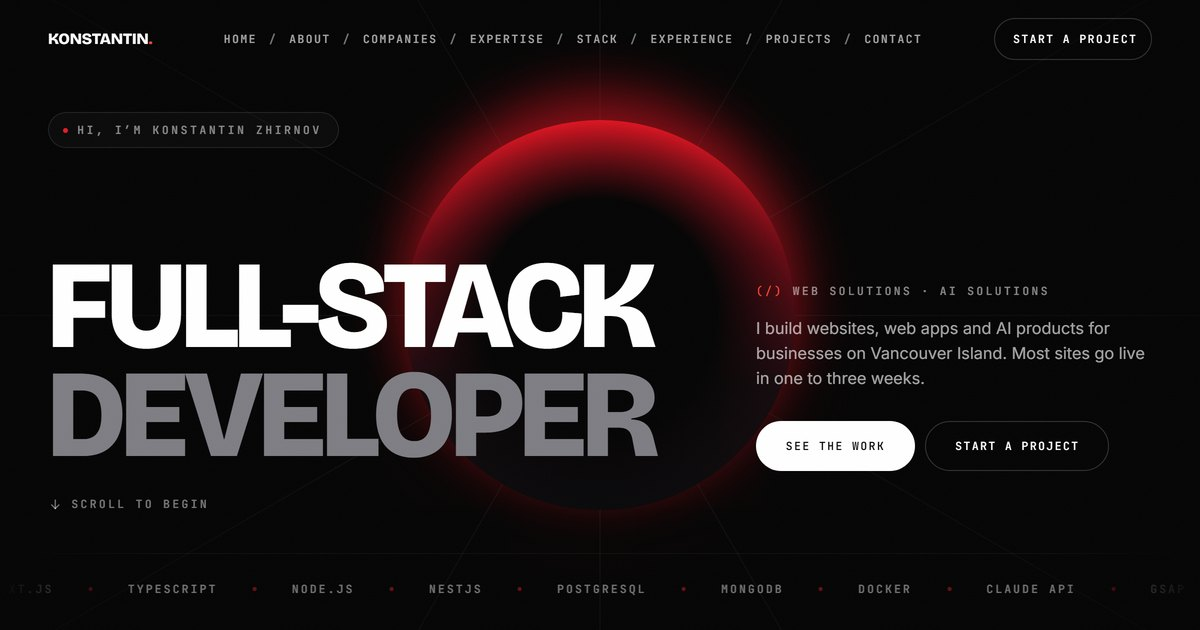
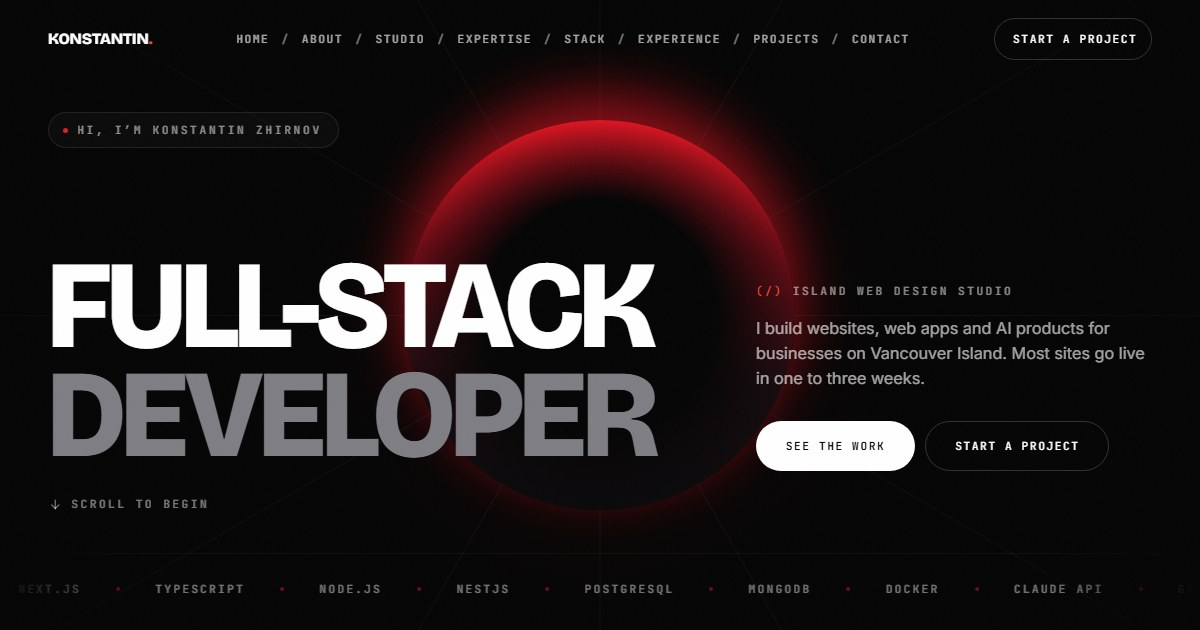
Rename Web Solutions to Island Web Design Studio and drop AI Solutions
AI Solutions no longer exists, so its company card, project and screenshot
are gone; the studio section, copy, meta tags, noscript block, Open Graph
image and product docs now name Island Web Design Studio only.

diff --git a/src/shared/content.ts b/src/shared/content.ts
@@ -1,6 +1,6 @@
 /**
  * Every word and link on the site lives here, so the page components stay layout-only.
- * Sources: the CV (Feb 2026), create-website.ca and ai-solutions.live.
+ * Sources: the CV (Feb 2026) and create-website.ca.
  */
 
 // Contact details below are mirrored in the <noscript> block of public/index.html,
@@ -26,24 +26,24 @@ export const profile = {
     'I build websites, web apps and AI products for businesses on Vancouver Island. Most sites go live in one to three weeks.',
   bio: [
     'I have been building for the web since 2018 — first for agencies and product teams, then for a bank, a steel company, and a B2B portal I rewrote from scratch for 26,000 new clients. Speed, accessibility and search ranking are part of the build, not the phase that gets cut.',
-    'Since January 2026 I run two of my own companies out of Nanaimo: Web Solutions, a web studio for small businesses across Vancouver Island, and AI Solutions, an AI product studio. I design, build and support everything myself — you talk to the person writing the code.',
+    'Since January 2026 I run my own studio out of Nanaimo: Island Web Design Studio, building websites, web apps and AI products for small businesses across Vancouver Island. I design, build and support everything myself — you talk to the person writing the code.',
   ],
 }
 
 export const stats = [
   { value: '2018', label: 'Building for the web since' },
   { value: '30+', label: 'Websites shipped' },
-  { value: '02', label: 'Companies of my own' },
+  { value: '08', label: 'Years of commercial work' },
   { value: '5.0', label: 'Rating on Google' },
 ]
 
 export const companies = [
   {
-    id: 'web-solutions',
-    name: 'Web Solutions',
+    id: 'island-web-design-studio',
+    name: 'Island Web Design Studio',
     url: 'https://create-website.ca/',
     since: 'Since January 2026',
-    kind: 'Web studio · Nanaimo, Vancouver Island',
+    kind: 'Web design studio · Nanaimo, Vancouver Island',
     text: 'Fast, SEO-optimized, mobile-first websites and web apps for small businesses — from the first sketch of a brand to the local search traffic that finds it.',
     services: [
       'Business websites',
@@ -52,21 +52,6 @@ export const companies = [
       'UI/UX design',
       'Brand identity',
       'Local SEO',
-    ],
-  },
-  {
-    id: 'ai-solutions',
-    name: 'AI Solutions',
-    url: 'https://ai-solutions.live/',
-    since: 'Since January 2026',
-    kind: 'AI product studio',
-    text: 'Frontier AI turned into working products: custom applications, agents and chatbots that resolve real tasks, LLM integration into systems already running, and automation that makes routine work disappear.',
-    services: [
-      'Custom AI apps',
-      'AI agents & chatbots',
-      'LLM integration',
-      'Process automation',
-      'Evaluation & guardrails',
     ],
   },
 ]
@@ -171,9 +156,9 @@ export const stack: { group: string; items: string[] }[] = [
 export const experience = [
   {
     years: '2026 — now',
-    company: 'Web Solutions · AI Solutions',
+    company: 'Island Web Design Studio',
     role: 'Founder, Full Stack Developer',
-    text: 'Run both companies end to end — design, build, deploy and support websites, web apps and AI products for clients across Vancouver Island.',
+    text: 'Run the studio end to end — design, build, deploy and support websites, web apps and AI products for clients across Vancouver Island.',
     tech: ['Next.js', 'TypeScript', 'Node.js', 'PostgreSQL', 'Claude API', 'Stripe'],
   },
   {
@@ -231,15 +216,6 @@ export type Project = {
 }
 
 export const projects: Project[] = [
-  {
-    id: 'ai-solutions',
-    tag: 'AI product studio',
-    title: 'AI Solutions',
-    text: 'A modern AI product studio website that positions the brand as an end-to-end partner for building real AI-powered products.',
-    tech: ['AI-focused', 'Premium design', 'Service-led'],
-    url: 'https://ai-solutions.live',
-    shot: 'ai-solutions',
-  },
   {
     id: 'helper',
     tag: 'AI booking SaaS',
@@ -325,7 +301,7 @@ export const education = [
 export const nav = [
   { label: 'Home', href: '#top' },
   { label: 'About', href: '#about' },
-  { label: 'Companies', href: '#now' },
+  { label: 'Studio', href: '#now' },
   { label: 'Expertise', href: '#expertise' },
   { label: 'Stack', href: '#stack' },
   { label: 'Experience', href: '#work' },
@@ -353,7 +329,7 @@ export const hero = {
   // the second display line; the first cycles through profile.roles
   title: 'Developer',
   mark: '(/)',
-  kicker: 'Web Solutions · AI Solutions',
+  kicker: 'Island Web Design Studio',
   primary: { label: 'See the work', href: '#projects' },
   cue: 'Scroll to begin',
   marquee: [
@@ -383,8 +359,8 @@ export const heads: Record<
   },
   now: {
     eyebrow: '// Currently',
-    title: ['Two companies', 'of my own'],
-    lead: 'Since January 2026 I have been running both out of Nanaimo — one building the web for small businesses across Vancouver Island, the other turning frontier AI into products people actually use.',
+    title: ['A studio', 'of my own'],
+    lead: 'Since January 2026 I have been running Island Web Design Studio out of Nanaimo — building the web, and the AI behind it, for small businesses across Vancouver Island.',
   },
   expertise: {
     eyebrow: '// Core disciplines',
@@ -399,12 +375,12 @@ export const heads: Record<
   work: {
     eyebrow: '// Track record',
     title: ['Where the', 'hours went'],
-    lead: 'Eight years from agency work through an internal banking platform and a B2B portal rewrite, to running two companies of my own.',
+    lead: 'Eight years from agency work through an internal banking platform and a B2B portal rewrite, to running a studio of my own.',
   },
   projects: {
     eyebrow: '// Selected work',
     title: ['Projects that', 'define the journey'],
-    lead: 'Eight sites and products, every one of them live right now, and every one designed, built and deployed by me.',
+    lead: 'Seven sites and products, every one of them live right now, and every one designed, built and deployed by me.',
   },
   education: {
     eyebrow: '// Formal training',
@@ -438,7 +414,7 @@ export const footer = {
   sections: 'Sections',
   companies: 'Companies',
   elsewhere: 'Elsewhere',
-  // listed in the footer beside the two companies
+  // listed in the footer beside the studio
   products: [{ name: 'Helper AI', url: 'https://helper-ai.org/' }],
   resume: 'Résumé (PDF)',
   cta: 'Have something to build? Write to me directly.',

diff --git a/index.html b/index.html
@@ -19,7 +19,7 @@
     <title>Konstantin Zhirnov — Full Stack Developer in Nanaimo, BC</title>
     <meta
       name="description"
-      content="Websites, web apps and AI products for businesses on Vancouver Island. Konstantin Zhirnov — full stack developer in Nanaimo, BC, and founder of Web Solutions and AI Solutions."
+      content="Websites, web apps and AI products for businesses on Vancouver Island. Konstantin Zhirnov — full stack developer in Nanaimo, BC, and founder of Island Web Design Studio."
     />
     <meta name="author" content="Konstantin Zhirnov" />
 
@@ -28,7 +28,7 @@
     <meta property="og:title" content="Konstantin Zhirnov — Full Stack Developer in Nanaimo, BC" />
     <meta
       property="og:description"
-      content="Websites, web apps and AI products for businesses on Vancouver Island. Founder of Web Solutions and AI Solutions, Nanaimo BC."
+      content="Websites, web apps and AI products for businesses on Vancouver Island. Founder of Island Web Design Studio, Nanaimo BC."
     />
     <!-- Crawlers (LinkedIn, Slack, X) need an absolute URL here. -->
     <meta property="og:image" content="https://kostya-zhirnov.vercel.app/og-image.jpg" />
@@ -65,7 +65,7 @@
         <ul>
           <li><a href="mailto:kostya.zhirnov@gmail.com">kostya.zhirnov@gmail.com</a></li>
           <li><a href="tel:+12507972834">(250) 797-2834</a></li>
-          <li><a href="https://create-website.ca/">Web Solutions</a> · <a href="https://ai-solutions.live/">AI Solutions</a></li>
+          <li><a href="https://create-website.ca/">Island Web Design Studio</a></li>
           <li><a href="https://www.linkedin.com/in/kostya-zhirnov/">LinkedIn</a> · <a href="https://github.com/Konstantin-Zhirnov">GitHub</a> · <a href="/Konstantin_Zhirnov.pdf">Résumé (PDF)</a></li>
         </ul>
       </main>

diff --git a/src/shared/assets/work/index.ts b/src/shared/assets/work/index.ts
@@ -1,4 +1,3 @@
-import aiSolutions from './ai-solutions.webp'
 import athecon from './athecon.webp'
 import helper from './helper-ai.webp'
 import p3 from './p3me.webp'
@@ -7,9 +6,8 @@ import pdr from './paintless-dent-repair.webp'
 import upgreat from './upgreat-home.webp'
 import yankovska from './yankovskaschool-2026.webp'
 
-/** Site shots shared with the Web Solutions studio site (C:\Projects\Studio), 1400×875. */
+/** Site shots shared with the Island Web Design Studio site (C:\Projects\Studio), 1400×875. */
 export const shots: Record<string, string> = {
-  'ai-solutions': aiSolutions,
   athecon,
   helper,
   p3,

diff --git a/src/widgets/Now/Now.module.sass b/src/widgets/Now/Now.module.sass
@@ -4,7 +4,8 @@
 
 .grid
   display: grid
-  grid-template-columns: repeat(2, minmax(0, 1fr))
+  // one card per company; a lone card takes the full row
+  grid-template-columns: repeat(auto-fit, minmax(min(100%, 24rem), 1fr))
   gap: clamp(1rem, 2vw, 1.5rem)
 
 .card

diff --git a/PRODUCT.md b/PRODUCT.md
@@ -21,7 +21,7 @@ within one click. They are served by the same page, but they are not who the pag
 ## Product Purpose
 
 The personal site of Konstantin Zhirnov, Full Stack Developer in Nanaimo, BC — the one page that
-carries both halves of his working life: the client work shipped through his two companies, and the
+carries both halves of his working life: the client work shipped through his own studio, and the
 eight-year employment record behind it.
 
 Success is a started conversation about a project. A message on email, Telegram, WhatsApp or the
@@ -31,27 +31,27 @@ shaped around.
 ## Positioning
 
 One person owns the entire chain — design, build, deploy, support — so the client talks to the
-developer writing the code rather than to an account manager. Two companies run in parallel out of
-Nanaimo since January 2026: **Web Solutions** (create-website.ca) for websites and web apps for
-small businesses, and **AI Solutions** (ai-solutions.live) for AI products, agents and automation.
-The pairing is the position: a local web studio that can also ship LLM products that take real
-action, which neither a generic local agency nor a remote AI shop can claim truthfully.
+developer writing the code rather than to an account manager. One studio runs out of Nanaimo since
+January 2026: **Island Web Design Studio** (create-website.ca) for websites, web apps and AI
+products for small businesses. The position: a local web studio that can also ship LLM products
+that take real action, which neither a generic local agency nor a remote AI shop can claim
+truthfully.
 
 ## Operating Context
 
-- Clients are local and small; most Web Solutions sites ship in one to three weeks.
-- The page is a single scrolling document with in-page navigation — Home, About, Companies,
+- Clients are local and small; most Island Web Design Studio sites ship in one to three weeks.
+- The page is a single scrolling document with in-page navigation — Home, About, Studio,
   Expertise, Stack, Experience, Projects, Contact — not a multi-route site.
 - There is no contact form. Enquiries arrive through direct channels: email, phone, Telegram,
   WhatsApp, plus LinkedIn and GitHub for the hiring audience.
 - The résumé PDF (`public/Konstantin_Zhirnov.pdf`) is the artefact the hiring audience wants.
-- Project screenshots are shared with the Web Solutions studio site (`C:\Projects\studio`), so the
+- Project screenshots are shared with the Island Web Design Studio site (`C:\Projects\studio`), so the
   two properties show the same client work.
 
 ## Capabilities and Constraints
 
-**Confirmed content the site carries:** profile and bio; two company cards; four expertise
-disciplines; a five-group technology stack; seven employment entries from 2018 to now; eight live
+**Confirmed content the site carries:** profile and bio; one studio card; four expertise
+disciplines; a five-group technology stack; seven employment entries from 2018 to now; seven live
 client projects with screenshots and links; two education credentials; four headline statistics;
 five contact channels.
 
@@ -66,7 +66,7 @@ five contact channels.
 
 **Explicitly open:** the site is static today, but a backend is *not* ruled out — a serverless
 function and a real contact form are permitted future work if they serve the client audience. The
-existing Web Solutions mail route (`Studio/app/api/mail/route.ts`, which forwards into Telegram) is
+existing Island Web Design Studio mail route (`Studio/app/api/mail/route.ts`, which forwards into Telegram) is
 the shape to follow if one is added.
 
 **Audience order in copy:** the hero, the header CTA ("Start a project") and the page meta lead
@@ -81,7 +81,7 @@ the Contact section, and nowhere above the fold.
   it does not redesign it away.
 - Voice in the shipped copy is first-person, plain and unhedged, with concrete numbers rather than
   adjectives ("you talk to the person writing the code").
-- Company names in use: Web Solutions, AI Solutions, Helper AI (helper-ai.org).
+- Company names in use: Island Web Design Studio, Helper AI (helper-ai.org).
 
 ## Evidence on Hand
 
@@ -99,7 +99,7 @@ the Contact section, and nowhere above the fold.
 
 **Assets:**
 
-- Eight client site screenshots, 1400×875, in `src/shared/assets/work/`: AI Solutions, Helper AI,
+- Seven client site screenshots, 1400×875, in `src/shared/assets/work/`: Helper AI,
   Athecon Projects, P3 Mechanical & Electrical, Pahlavan General Contracting, UPGREAT Home
   Renovations, Yankovska School of Rhythmic Gymnastics, Mobile Paintless Dent Repair. Every one is a
   live site.

diff --git a/README.md b/README.md
@@ -16,7 +16,7 @@ npm run build # production bundle into build/
 | `src/shared/content.ts` | **every word and link on the site** — profile, companies, expertise, stack, experience, projects, education. Edit copy here, not in the components. |
 | `src/app/App.sass` | design tokens (colour, type, rhythm, motion) as CSS custom properties, plus the shared section furniture (`.container`, `.section`, `.h2`, `.eyebrow`, `.lead`, `.head`, `.line`). |
 | `src/shared/lib/useMotion.ts` | the whole motion layer: Lenis + ScrollTrigger boot and the reveal system. |
-| `src/shared/assets/` | `portrait.jpg` (duotone plate used in About), `portrait-source.jpg` (the untouched original), `work/` (site screenshots, shared with the Web Solutions studio site). |
+| `src/shared/assets/` | `portrait.jpg` (duotone plate used in About), `portrait-source.jpg` (the untouched original), `work/` (site screenshots, shared with the Island Web Design Studio site). |
 | `src/widgets/*` | one folder per section: `index.tsx` + `*.module.sass`. |
 
 ## Motion
@@ -52,5 +52,5 @@ it mirrors `profile` in `content.ts`, so update both together.
   invalid in a selector. Use refs.
 - The contact section has no form: the site is static, so it lists direct channels instead.
   To add one, put an `api/mail.ts` function next to the build (the site already runs on Vercel)
-  and POST `{ spam_2026, name, contact, message }` to it — same shape as the Web Solutions studio
+  and POST `{ spam_2026, name, contact, message }` to it — same shape as the Island Web Design Studio
   route in `Studio/app/api/mail/route.ts`, which forwards the enquiry into Telegram.
